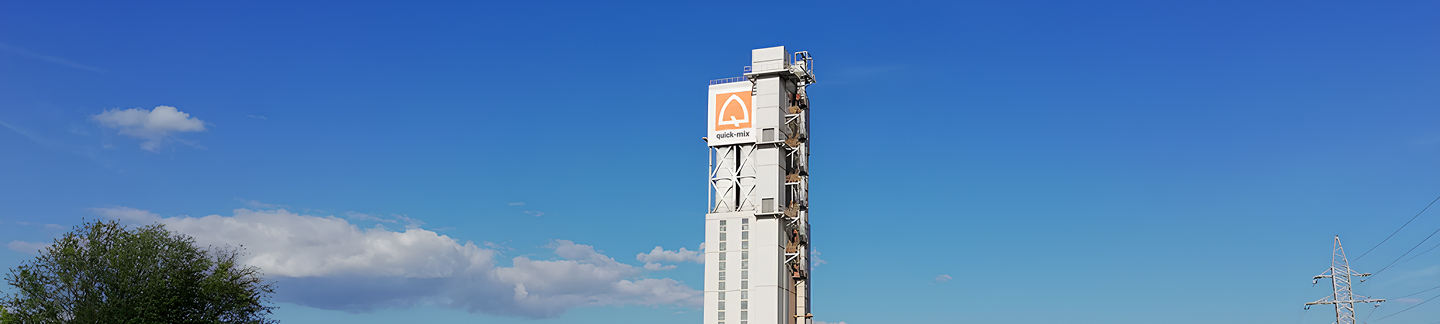
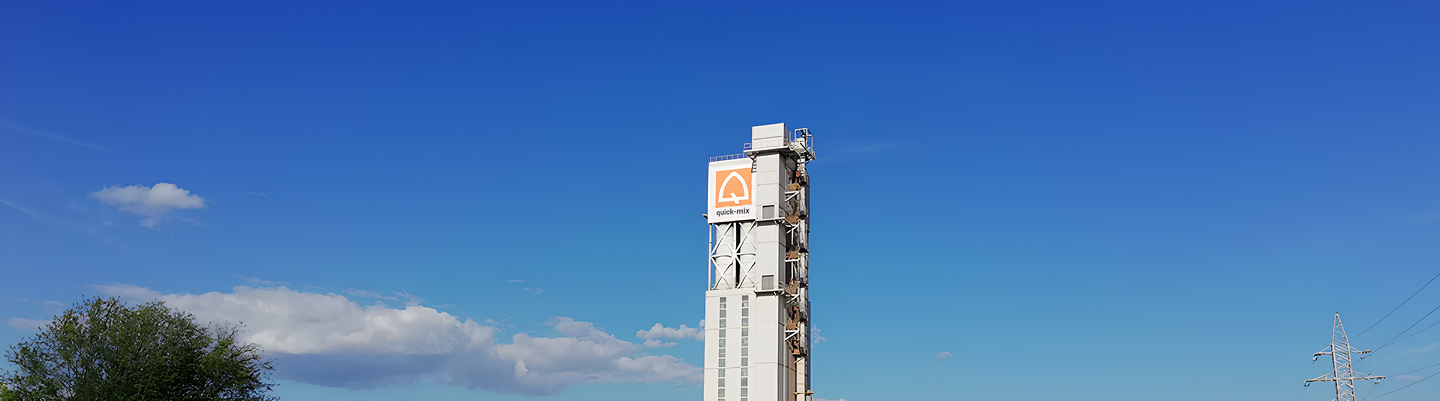
all done 003

diff --git a/css/style.css b/css/style.css
@@ -1,1 +1,1 @@
-html{font-family:sans-serif;-ms-text-size-adjust:100%;-webkit-text-size-adjust:100%}body{margin:0}article,aside,details,figcaption,figure,footer,header,hgroup,main,nav,section,summary{display:block}audio,canvas,progress,video{display:inline-block;vertical-align:baseline}audio:not([controls]){display:none;height:0}[hidden],template{display:none}a{background:rgba(0,0,0,0)}a:active,a:hover{outline:0}abbr[title]{border-bottom:1px dotted}b,strong{font-weight:bold}dfn{font-style:italic}h1{font-size:2em;margin:.67em 0}mark{background:#ff0;color:#000}small{font-size:80%}sub,sup{font-size:75%;line-height:0;position:relative;vertical-align:baseline}sup{top:-0.5em}sub{bottom:-0.25em}img{border:0}svg:not(:root){overflow:hidden}figure{margin:1em 40px}hr{-moz-box-sizing:content-box;-webkit-box-sizing:content-box;box-sizing:content-box;height:0}pre{overflow:auto}code,kbd,pre,samp{font-family:monospace,monospace;font-size:1em}button,input,optgroup,select,textarea{color:inherit;font:inherit;margin:0}button{overflow:visible}button,select{text-transform:none}button,html input[type=button],input[type=reset],input[type=submit]{-webkit-appearance:button;cursor:pointer}button[disabled],html input[disabled]{cursor:default}button::-moz-focus-inner,input::-moz-focus-inner{border:0;padding:0}input{line-height:normal}input[type=checkbox],input[type=radio]{-webkit-box-sizing:border-box;-moz-box-sizing:border-box;box-sizing:border-box;padding:0}input[type=number]::-webkit-inner-spin-button,input[type=number]::-webkit-outer-spin-button{height:auto}input[type=search]{-webkit-appearance:textfield;-moz-box-sizing:content-box;-webkit-box-sizing:content-box;box-sizing:content-box}input[type=search]::-webkit-search-cancel-button,input[type=search]::-webkit-search-decoration{-webkit-appearance:none}legend{border:0;padding:0}textarea{overflow:auto}optgroup{font-weight:bold}table{border-collapse:collapse;border-spacing:0}td,th{padding:0}*{padding:0;margin:0;-webkit-box-sizing:border-box;-moz-box-sizing:border-box;box-sizing:border-box;border:none;outline:none}:root{--prime: #18274E;--white: #fff;--black: #000;--dark: #111111;--bg: #fff}html{scroll-behavior:smooth}body,html{font-family:"Roboto",sans-serif;font-weight:400;font-style:normal;font-optical-sizing:auto;background-color:var(--bg);color:var(--black)}body{min-height:100vh;position:relative;z-index:1}body.active{overflow:hidden}img{display:block;max-width:100%}a,button{text-decoration:none;-webkit-transition:all ease .3s;-o-transition:all ease .3s;-moz-transition:all ease .3s;transition:all ease .3s;background-color:rgba(0,0,0,0)}a:active,button:active{opacity:1;-webkit-transform:scale(0.98);-moz-transform:scale(0.98);-ms-transform:scale(0.98);-o-transform:scale(0.98);transform:scale(0.98)}ul{list-style:none}.slick-list{position:relative;display:-webkit-box;display:-webkit-flex;display:-moz-box;display:-ms-flexbox;display:flex;margin:0;padding:0}.slick-list:focus{outline:none}.slick-list.dragging{cursor:pointer;cursor:hand}.slick-slider{position:relative;display:block;-webkit-box-sizing:border-box;-moz-box-sizing:border-box;box-sizing:border-box;-webkit-touch-callout:none;-webkit-user-select:none;-moz-user-select:none;-ms-user-select:none;user-select:none;-ms-touch-action:pan-y;touch-action:pan-y;-webkit-tap-highlight-color:rgba(0,0,0,0);left:0;width:100%;position:relative}.slick-slider .slick-track,.slick-slider .slick-list{-webkit-transform:translate3d(0, 0, 0);-moz-transform:translate3d(0, 0, 0);-ms-transform:translate3d(0, 0, 0);-o-transform:translate3d(0, 0, 0);transform:translate3d(0, 0, 0)}.slick-track{position:relative;left:0;top:0;display:-webkit-box;display:-webkit-flex;display:-moz-box;display:-ms-flexbox;display:flex;margin-left:auto;margin-right:auto}.slick-track:before,.slick-track:after{content:"";display:table}.slick-track:after{clear:both}.slick-loading .slick-track{visibility:hidden}.slick-slide{float:left;height:100%;margin:0;min-height:1px;-webkit-transition:all ease .3s;-o-transition:all ease .3s;-moz-transition:all ease .3s;transition:all ease .3s;margin:0 8px}.slick-slide img{display:block}.slick-slide.slick-loading img{display:none}.slick-slide.dragging img{pointer-events:none}.slick-loading .slick-slide{visibility:hidden}.slick-vertical .slick-slide{height:auto}.slick-arrow.slick-hidden{display:none}.slick-arrow{color:rgba(0,0,0,0);width:52px;z-index:111;height:52px;-webkit-border-radius:50%;-moz-border-radius:50%;border-radius:50%;background-repeat:no-repeat;background-position:center center;-webkit-background-size:contain;-moz-background-size:contain;-o-background-size:contain;background-size:contain;-webkit-box-shadow:0px 2px 18px 2px rgba(0,0,0,.0392156863);-moz-box-shadow:0px 2px 18px 2px rgba(0,0,0,.0392156863);box-shadow:0px 2px 18px 2px rgba(0,0,0,.0392156863)}.slick-arrow.slick-disabled{opacity:.2}.slick-next{background-image:url("../img/arrow-r.svg")}.slick-prev{background-image:url("../img/arrow-l.svg")}.slick-dots{z-index:111;display:-webkit-box;display:-webkit-flex;display:-moz-box;display:-ms-flexbox;display:flex;-webkit-box-align:center;-webkit-align-items:center;-moz-box-align:center;-ms-flex-align:center;align-items:center;gap:10px}.slick-dots li{line-height:0;font-size:0;color:rgba(0,0,0,0);background-color:#18274e;width:10px;height:10px;-webkit-border-radius:50%;-moz-border-radius:50%;border-radius:50%;line-height:0;opacity:.2}.slick-dots li.slick-active{opacity:1}.timeline{margin:0 auto;overflow:hidden;padding:80px 0 90px;position:relative;z-index:1}.timeline-row{display:-webkit-box;display:-webkit-flex;display:-moz-box;display:-ms-flexbox;display:flex;margin-bottom:114px;padding:0 31px}.timeline-row .half{gap:40px;display:-webkit-box;display:-webkit-flex;display:-moz-box;display:-ms-flexbox;display:flex;width:100%;max-width:63%;margin-left:auto}.timeline-controls{display:-webkit-box;display:-webkit-flex;display:-moz-box;display:-ms-flexbox;display:flex;-webkit-box-align:center;-webkit-align-items:center;-moz-box-align:center;-ms-flex-align:center;align-items:center;gap:10px;margin-left:auto}.timeline-controls .slick-dots{margin-right:74px}.timeline__heading{font-weight:500;font-size:44px;line-height:110%;margin:0}.timeline__text{font-weight:500;font-size:16px;line-height:140%;opacity:0;-webkit-transition:.3s ease all;-o-transition:.3s ease all;-moz-transition:.3s ease all;transition:.3s ease all}.timeline-item{position:relative;z-index:1;margin:0;display:-webkit-box;display:-webkit-flex;display:-moz-box;display:-ms-flexbox;display:flex;-webkit-box-align:end;-webkit-align-items:flex-end;-moz-box-align:end;-ms-flex-align:end;align-items:flex-end;min-height:360px;min-width:426px;width:426px;padding-bottom:143px;background-repeat:repeat-x;background-position:bottom left;background-image:url("../img/lines.svg");background-image:url("../img/line-ac.svg"),url("../img/lines.svg");background-position:bottom left;background-repeat:no-repeat,repeat-x}.timeline-item:first-child::before,.timeline-item:last-child::before{content:"";width:50vw;pointer-events:none;height:100%;position:absolute;bottom:0;right:100%;background-repeat:repeat-x;background-position:bottom right;background-image:url("../img/lines.svg")}.timeline-item:last-child::before{right:auto;left:100%;background-position:bottom left}.timeline-item.slick-current .timeline__text{opacity:1;-webkit-transform:translateY(0%);-moz-transform:translateY(0%);-ms-transform:translateY(0%);-o-transform:translateY(0%);transform:translateY(0%)}.timeline__subheading{font-weight:400;font-size:20px;line-height:140%;margin:0;-webkit-transition:.3s ease all;-o-transition:.3s ease all;-moz-transition:.3s ease all;transition:.3s ease all}.timeline-images{display:-webkit-box;display:-webkit-flex;display:-moz-box;display:-ms-flexbox;display:flex;-webkit-transition:-webkit-transform .4s ease;transition:-webkit-transform .4s ease;-o-transition:-o-transform .4s ease;-moz-transition:transform .4s ease, -moz-transform .4s ease;transition:transform .4s ease;transition:transform .4s ease, -webkit-transform .4s ease, -moz-transform .4s ease, -o-transform .4s ease;will-change:transform}.timeline-images .slick-list{padding:0 !important}.timeline-images .slick-track{padding:0 !important}.timeline-img{margin:0;min-width:100%;width:100%}.timeline-img img{width:100%;display:block}.timeline-track{padding-left:37%;overflow:hidden}.timeline-track .slick-arrow{display:none}.timeline-list{overflow:hidden}.timeline-slider{display:-webkit-box;display:-webkit-flex;display:-moz-box;display:-ms-flexbox;display:flex;-webkit-transition:-webkit-transform .4s ease;transition:-webkit-transform .4s ease;-o-transition:-o-transform .4s ease;-moz-transition:transform .4s ease, -moz-transform .4s ease;transition:transform .4s ease;transition:transform .4s ease, -webkit-transform .4s ease, -moz-transform .4s ease, -o-transform .4s ease;will-change:transform}@media screen and (min-width: 1101px){.timeline__text{position:absolute;left:80%;width:364px;-webkit-transform:translateY(10%);-moz-transform:translateY(10%);-ms-transform:translateY(10%);-o-transform:translateY(10%);transform:translateY(10%);top:0}.timeline-item.slick-current{background-image:url("../img/line-big.svg"),url("../img/lines.svg")}.timeline-item.slick-current .timeline__subheading{color:#72a811;font-weight:400;font-size:128px;line-height:78%;-webkit-transform:translateY(-100%);-moz-transform:translateY(-100%);-ms-transform:translateY(-100%);-o-transform:translateY(-100%);transform:translateY(-100%);padding-left:33px}.timeline-item.slick-current .timeline__text{opacity:1;-webkit-transform:translateY(0%);-moz-transform:translateY(0%);-ms-transform:translateY(0%);-o-transform:translateY(0%);transform:translateY(0%)}}@media screen and (max-width: 1100px){.timeline-row{display:block;margin-bottom:20px}.timeline-row .half{max-width:100%;display:block}.timeline-item{display:block;width:100%;min-height:unset;padding:0 16px 130px;background-image:url("../img/line-ac.svg"),url("../img/lines-mob.svg");background-position:bottom left 70px,bottom left}.timeline__subheading{text-align:center;width:100%;color:#72a811;font-size:60px;line-height:78%}.timeline__text{margin-bottom:50px}.timeline-track{padding-left:0}.timeline .slick-arrow{top:40%;-webkit-transform:translateY(-50%);-moz-transform:translateY(-50%);-ms-transform:translateY(-50%);-o-transform:translateY(-50%);transform:translateY(-50%);position:absolute}.timeline .slick-list{padding:0 !important}.timeline .slick-prev{left:16px}.timeline .slick-next{right:16px}.timeline .slick-dots{display:none}.timeline-row{padding:0 16px}.timeline-img img{-o-object-fit:cover;object-fit:cover;-o-object-position:center center;object-position:center center;aspect-ratio:16/9}}@media screen and (max-width: 700px){.timeline-img img{aspect-ratio:360/201}}/*# sourceMappingURL=style.css.map */
+html{font-family:sans-serif;-ms-text-size-adjust:100%;-webkit-text-size-adjust:100%}body{margin:0}article,aside,details,figcaption,figure,footer,header,hgroup,main,nav,section,summary{display:block}audio,canvas,progress,video{display:inline-block;vertical-align:baseline}audio:not([controls]){display:none;height:0}[hidden],template{display:none}a{background:rgba(0,0,0,0)}a:active,a:hover{outline:0}abbr[title]{border-bottom:1px dotted}b,strong{font-weight:bold}dfn{font-style:italic}h1{font-size:2em;margin:.67em 0}mark{background:#ff0;color:#000}small{font-size:80%}sub,sup{font-size:75%;line-height:0;position:relative;vertical-align:baseline}sup{top:-0.5em}sub{bottom:-0.25em}img{border:0}svg:not(:root){overflow:hidden}figure{margin:1em 40px}hr{-moz-box-sizing:content-box;-webkit-box-sizing:content-box;box-sizing:content-box;height:0}pre{overflow:auto}code,kbd,pre,samp{font-family:monospace,monospace;font-size:1em}button,input,optgroup,select,textarea{color:inherit;font:inherit;margin:0}button{overflow:visible}button,select{text-transform:none}button,html input[type=button],input[type=reset],input[type=submit]{-webkit-appearance:button;cursor:pointer}button[disabled],html input[disabled]{cursor:default}button::-moz-focus-inner,input::-moz-focus-inner{border:0;padding:0}input{line-height:normal}input[type=checkbox],input[type=radio]{-webkit-box-sizing:border-box;-moz-box-sizing:border-box;box-sizing:border-box;padding:0}input[type=number]::-webkit-inner-spin-button,input[type=number]::-webkit-outer-spin-button{height:auto}input[type=search]{-webkit-appearance:textfield;-moz-box-sizing:content-box;-webkit-box-sizing:content-box;box-sizing:content-box}input[type=search]::-webkit-search-cancel-button,input[type=search]::-webkit-search-decoration{-webkit-appearance:none}legend{border:0;padding:0}textarea{overflow:auto}optgroup{font-weight:bold}table{border-collapse:collapse;border-spacing:0}td,th{padding:0}*{padding:0;margin:0;-webkit-box-sizing:border-box;-moz-box-sizing:border-box;box-sizing:border-box;border:none;outline:none}:root{--prime: #18274E;--white: #fff;--black: #000;--dark: #111111;--bg: #fff}html{scroll-behavior:smooth}body,html{font-family:"Roboto",sans-serif;font-weight:400;font-style:normal;font-optical-sizing:auto;background-color:var(--bg);color:var(--black)}body{min-height:100vh;position:relative;z-index:1}body.active{overflow:hidden}img{display:block;max-width:100%}a,button{text-decoration:none;-webkit-transition:all ease .3s;-o-transition:all ease .3s;-moz-transition:all ease .3s;transition:all ease .3s;background-color:rgba(0,0,0,0)}a:active,button:active{opacity:1;-webkit-transform:scale(0.98);-moz-transform:scale(0.98);-ms-transform:scale(0.98);-o-transform:scale(0.98);transform:scale(0.98)}ul{list-style:none}.btn{font-weight:500;font-size:18px;line-height:110%;-webkit-border-radius:80px;-moz-border-radius:80px;border-radius:80px;width:-webkit-fit-content;width:-moz-fit-content;width:fit-content;display:-webkit-box;display:-webkit-flex;display:-moz-box;display:-ms-flexbox;display:flex;-webkit-box-align:center;-webkit-align-items:center;-moz-box-align:center;-ms-flex-align:center;align-items:center;gap:20px;padding:19px 24px;border:1px solid #9291aa;color:#18274e;background-color:#fff}@media screen and (max-width: 1100px){.mob-hide{display:none}}@media screen and (min-width: 1101px){.mob-show{display:none}}.slick-arrow{color:rgba(0,0,0,0);width:52px;z-index:111;height:52px;-webkit-border-radius:50%;-moz-border-radius:50%;border-radius:50%;background-repeat:no-repeat;background-position:center center;-webkit-background-size:contain;-moz-background-size:contain;-o-background-size:contain;background-size:contain;-webkit-box-shadow:0px 2px 18px 2px rgba(0,0,0,.0392156863);-moz-box-shadow:0px 2px 18px 2px rgba(0,0,0,.0392156863);box-shadow:0px 2px 18px 2px rgba(0,0,0,.0392156863)}.slick-arrow.slick-disabled{opacity:.2}.slick-next{background-image:url("../img/arrow-r.svg")}.slick-prev{background-image:url("../img/arrow-l.svg")}.slick-dots{z-index:111;display:-webkit-box;display:-webkit-flex;display:-moz-box;display:-ms-flexbox;display:flex;-webkit-box-align:center;-webkit-align-items:center;-moz-box-align:center;-ms-flex-align:center;align-items:center;gap:10px}.slick-dots li{line-height:0;font-size:0;color:rgba(0,0,0,0);cursor:pointer;background-color:#18274e;width:10px;height:10px;-webkit-border-radius:50%;-moz-border-radius:50%;border-radius:50%;line-height:0;opacity:.2}.slick-dots li.slick-active{opacity:1}.timeline{margin:0 auto;overflow:hidden;padding:80px 0 90px;position:relative;z-index:1}.timeline-row{display:-webkit-box;display:-webkit-flex;display:-moz-box;display:-ms-flexbox;display:flex;margin-bottom:114px;padding:0 31px}.timeline-row .half{gap:40px;display:-webkit-box;display:-webkit-flex;display:-moz-box;display:-ms-flexbox;display:flex;width:100%;max-width:63%;margin-left:auto}.timeline-controls{display:-webkit-box;display:-webkit-flex;display:-moz-box;display:-ms-flexbox;display:flex;-webkit-box-align:center;-webkit-align-items:center;-moz-box-align:center;-ms-flex-align:center;align-items:center;gap:10px;margin-left:auto}.timeline-controls .slick-dots{margin-right:74px}.timeline__heading{font-weight:500;font-size:44px;line-height:110%;margin:0}.timeline__text{font-weight:500;font-size:16px;line-height:140%;opacity:0;-webkit-transition:.3s ease all;-o-transition:.3s ease all;-moz-transition:.3s ease all;transition:.3s ease all}.timeline-item{position:relative;z-index:1;margin:0;display:-webkit-box;display:-webkit-flex;display:-moz-box;display:-ms-flexbox;display:flex;-webkit-box-align:end;-webkit-align-items:flex-end;-moz-box-align:end;-ms-flex-align:end;align-items:flex-end;min-height:360px;min-width:426px;width:426px;padding-bottom:143px;background-repeat:repeat-x;background-position:bottom left;background-image:url("../img/lines.svg");background-image:url("../img/line-ac.svg"),url("../img/lines.svg");background-position:bottom left;background-repeat:no-repeat,repeat-x}.timeline-item:first-child::before,.timeline-item:last-child::before{content:"";width:50vw;pointer-events:none;height:100%;position:absolute;bottom:0;right:100%;background-repeat:repeat-x;background-position:bottom right;background-image:url("../img/lines.svg")}.timeline-item:last-child::before{right:auto;left:100%;background-position:bottom left}.timeline-item.slick-current .timeline__text{opacity:1;-webkit-transform:translateY(0%);-moz-transform:translateY(0%);-ms-transform:translateY(0%);-o-transform:translateY(0%);transform:translateY(0%)}.timeline__subheading{font-weight:400;font-size:20px;line-height:140%;margin:0;-webkit-transition:.3s ease all;-o-transition:.3s ease all;-moz-transition:.3s ease all;transition:.3s ease all}.timeline-images{display:-webkit-box;display:-webkit-flex;display:-moz-box;display:-ms-flexbox;display:flex;-webkit-transition:-webkit-transform .4s ease;transition:-webkit-transform .4s ease;-o-transition:-o-transform .4s ease;-moz-transition:transform .4s ease, -moz-transform .4s ease;transition:transform .4s ease;transition:transform .4s ease, -webkit-transform .4s ease, -moz-transform .4s ease, -o-transform .4s ease;will-change:transform}.timeline-images .slick-list{padding:0 !important}.timeline-images .slick-track{padding:0 !important}.timeline-img{margin:0;min-width:100%;width:100%}.timeline-img img{width:100%;aspect-ratio:1440/324;-o-object-fit:cover;object-fit:cover;-o-object-position:center bottom;object-position:center bottom;display:block}.timeline-track{padding-left:37%;position:relative;z-index:1;overflow:hidden}.timeline-track .btn{position:absolute;left:30px;bottom:121px;z-index:111}.timeline-list{overflow:hidden}.timeline-slider{display:-webkit-box;display:-webkit-flex;display:-moz-box;display:-ms-flexbox;display:flex;-webkit-transition:-webkit-transform .4s ease;transition:-webkit-transform .4s ease;-o-transition:-o-transform .4s ease;-moz-transition:transform .4s ease, -moz-transform .4s ease;transition:transform .4s ease;transition:transform .4s ease, -webkit-transform .4s ease, -moz-transform .4s ease, -o-transform .4s ease;will-change:transform}@media screen and (min-width: 1101px){.timeline__text{position:absolute;left:80%;width:364px;-webkit-transform:translateY(10%);-moz-transform:translateY(10%);-ms-transform:translateY(10%);-o-transform:translateY(10%);transform:translateY(10%);top:0}.timeline-item.slick-current{background-image:url("../img/line-big.svg"),url("../img/lines.svg")}.timeline-item.slick-current .timeline__subheading{color:#72a811;font-weight:400;font-size:128px;line-height:78%;-webkit-transform:translateY(-100%);-moz-transform:translateY(-100%);-ms-transform:translateY(-100%);-o-transform:translateY(-100%);transform:translateY(-100%);padding-left:33px}.timeline-item.slick-current .timeline__text{opacity:1;-webkit-transform:translateY(0%);-moz-transform:translateY(0%);-ms-transform:translateY(0%);-o-transform:translateY(0%);transform:translateY(0%)}.timeline-track .slick-arrow{display:none}}@media screen and (max-width: 1100px){.timeline-row{display:block;margin-bottom:20px}.timeline-row .half{max-width:100%;display:block}.timeline-item{display:block;min-width:100%;width:100%;min-height:unset;padding:0 16px 160px;background-image:url("../img/line-ac.svg"),url("../img/lines-mob.svg");background-position:bottom left 70px,bottom left}.timeline__subheading{text-align:center;width:100%;color:#72a811;font-size:60px;line-height:78%}.timeline__text{margin-bottom:50px}.timeline-track{padding-left:0}.timeline .slick-arrow{top:auto;bottom:160px;position:absolute}.timeline .slick-list{padding:0 !important}.timeline .slick-prev{left:16px}.timeline .slick-next{right:16px}.timeline .slick-dots{display:none}.timeline-row{padding:0 16px}.timeline-img img{-o-object-fit:cover;object-fit:cover;-o-object-position:center center;object-position:center center;aspect-ratio:16/9}.timeline-controls{display:none}.timeline .btn{margin:30px auto 0}}@media screen and (max-width: 700px){.timeline-img img{aspect-ratio:360/201}}/*# sourceMappingURL=style.css.map */

diff --git a/js/main.js b/js/main.js
@@ -1,11 +1,10 @@
 document.addEventListener("DOMContentLoaded", function () {
     const slider = document.querySelector('.timeline-slider');
     const items = document.querySelectorAll('.timeline-item');
-    const nextBtn = document.querySelectorAll('.slick-next');
-    const prevBtn = document.querySelector('.slick-prev');
+    const nextBtns = document.querySelectorAll('.slick-next');
+    const prevBtns = document.querySelectorAll('.slick-prev');
     const dotsContainer = document.querySelector('.slick-dots');
 
-    // Новое:
     const imagesContainer = document.querySelector('.timeline-images');
     const images = document.querySelectorAll('.timeline-img');
 
@@ -14,64 +13,74 @@ document.addEventListener("DOMContentLoaded", function () {
     // Создание точек
     items.forEach((_, index) => {
         const dot = document.createElement('li');
-        if (index === 0) dot.classList.add('slick-active');
         dot.setAttribute('data-slide', index);
+        if (index === 0) dot.classList.add('slick-active');
         dotsContainer.appendChild(dot);
     });
 
     const dots = dotsContainer.querySelectorAll('li');
 
     function updateSlider() {
-        // === ТЕКСТ ===
         const itemWidth = items[0].offsetWidth + parseInt(getComputedStyle(items[0]).marginRight);
-        const offsetText = -(itemWidth * currentIndex);
-        slider.style.transform = `translateX(${offsetText}px)`;
+        const imgWidth = images[0].offsetWidth + parseInt(getComputedStyle(images[0]).marginRight);
 
+        // Смещение текста
+        slider.style.transform = `translateX(${-itemWidth * currentIndex}px)`;
+
+        // Смещение изображений
+        imagesContainer.style.transform = `translateX(${-imgWidth * currentIndex}px)`;
+
+        // Обновление классов
         items.forEach(item => item.classList.remove('slick-current'));
         if (items[currentIndex]) {
             items[currentIndex].classList.add('slick-current');
         }
-
-        prevBtn.classList.toggle('slick-disabled', currentIndex === 0);
-        // nextBtn.classList.toggle('slick-disabled', currentIndex === items.length - 1);
-        nextBtn.forEach(item => item.classList.toggle('slick-disabled', currentIndex === items.length - 1));
-        
 
         dots.forEach(dot => dot.classList.remove('slick-active'));
         if (dots[currentIndex]) {
             dots[currentIndex].classList.add('slick-active');
         }
 
-        // === КАРТИНКИ ===
-        const imgWidth = images[0].offsetWidth + parseInt(getComputedStyle(images[0]).marginRight);
-        const offsetImg = -(imgWidth * currentIndex);
-        imagesContainer.style.transform = `translateX(${offsetImg}px)`;
+        nextBtns.forEach(btn => btn.classList.toggle('slick-disabled', currentIndex === items.length - 1));
+        prevBtns.forEach(btn => btn.classList.toggle('slick-disabled', currentIndex === 0));
     }
 
-   nextBtn.forEach(item => item.addEventListener('click', function () {
-        if (currentIndex < items.length - 1) {
-            currentIndex++;
-            updateSlider();
-        }
-    }));
+    // Обработчики кнопок
+    nextBtns.forEach(btn =>
+        btn.addEventListener('click', function () {
+            if (currentIndex < items.length - 1) {
+                currentIndex++;
+                updateSlider();
+            }
+        })
+    );
 
-    prevBtn.addEventListener('click', function () {
-        if (currentIndex > 0) {
-            currentIndex--;
-            updateSlider();
-        }
-    });
+    prevBtns.forEach(btn =>
+        btn.addEventListener('click', function () {
+            if (currentIndex > 0) {
+                currentIndex--;
+                updateSlider();
+            }
+        })
+    );
 
-    dots.forEach(dot => {
-        dot.addEventListener('click', function () {
-            const index = parseInt(this.getAttribute('data-slide'));
+    // Обработчики точек
+    dotsContainer.addEventListener('click', function (e) {
+        if (e.target.tagName.toLowerCase() === 'li') {
+            const index = parseInt(e.target.getAttribute('data-slide'));
             if (!isNaN(index)) {
                 currentIndex = index;
                 updateSlider();
             }
-        });
+        }
     });
 
-    // Инициализация
-    updateSlider();
+    updateSlider(); // Начальная инициализация
+});
+
+// Перерасчёт при изменении размера экрана
+let resizeTimeout;
+window.addEventListener('resize', function () {
+    clearTimeout(resizeTimeout);
+    resizeTimeout = setTimeout(updateSlider, 200);
 });

diff --git a/sass/_slick.sass b/sass/_slick.sass
@@ -1,92 +1,6 @@
 /* Slider */
 
 .slick
-    &-list
-        position: relative
-        // overflow: hidden
-        display: flex
-
-        margin: 0
-        padding: 0
-
-        &:focus
-            outline: none
-
-        &.dragging
-            cursor: pointer
-            cursor: hand
-
-    &-slider
-        position: relative
-        // overflow: hidden
-        display: block
-        box-sizing: border-box
-        -webkit-touch-callout: none
-        user-select: none
-        touch-action: pan-y
-        -webkit-tap-highlight-color: transparent
-        left: 0
-
-        width: 100%
-        position: relative
-
-        .slick-track,
-        .slick-list
-            -webkit-transform: translate3d(0, 0, 0)
-            -moz-transform: translate3d(0, 0, 0)
-            -ms-transform: translate3d(0, 0, 0)
-            -o-transform: translate3d(0, 0, 0)
-            transform: translate3d(0, 0, 0)
-
-    &-track
-        position: relative
-        left: 0
-        top: 0
-        // height: 100%
-        display: flex
-        margin-left: auto
-        margin-right: auto
-
-        &:before,
-        &:after
-            content: ""
-            display: table
-
-        &:after
-            clear: both
-
-        .slick-loading &
-            visibility: hidden
-
-    &-slide
-        float: left
-        height: 100%
-        margin: 0
-        min-height: 1px
-        transition: all ease .3s
-        margin: 0 8px
-        // [dir="rtl"] &
-        //     float: right
-
-        img
-            display: block
-
-        &.slick-loading img
-            display: none
-
-        &.dragging img
-            pointer-events: none
-
-        .slick-loading &
-            visibility: hidden
-
-        .slick-vertical &
-            // display: block
-            height: auto
-
-    &-arrow.slick-hidden
-        display: none
-
     &-arrow
         color: rgba(0, 0, 0, 0)
         width: 52px
@@ -122,6 +36,7 @@
             line-height: 0
             font-size: 0
             color: rgba(0, 0, 0, 0)
+            cursor: pointer
             background-color: #18274E
             width: 10px
             height: 10px

diff --git a/sass/style.sass b/sass/style.sass
@@ -110,19 +110,28 @@
 
         img
             width: 100%
+            aspect-ratio: 1440/324
+            object-fit: cover
+            object-position: center bottom
             display: block
 
     &-track
         padding-left: 37%
+        position: relative
+        z-index: 1
         overflow: hidden
-        .slick-arrow 
-            display: none
+        .btn 
+            position: absolute
+            left: 30px 
+            bottom: 121px
+            z-index: 111
 
-    &-list 
+    &-list
         overflow: hidden
 
     &-slider
         display: flex
+
         transition: transform 0.4s ease
         will-change: transform
 
@@ -150,6 +159,10 @@
                         opacity: 1
                         transform: translateY(0%)
 
+        &-track
+            .slick-arrow
+                display: none
+
     @media screen and ( max-width: 1100px )
         &-row
             display: block
@@ -160,9 +173,10 @@
 
         &-item
             display: block
+            min-width: 100%
             width: 100%
             min-height: unset
-            padding: 0 16px 130px
+            padding: 0 16px 160px
             background-image: url('../img/line-ac.svg'), url('../img/lines-mob.svg')
             background-position: bottom left 70px, bottom left
 
@@ -176,13 +190,13 @@
         &__text
             margin-bottom: 50px
 
-        &-track 
+        &-track
             padding-left: 0
 
         .slick
             &-arrow
-                top: 40%
-                transform: translateY(-50%)
+                top: auto
+                bottom: 160px
                 position: absolute
 
             &-list
@@ -203,6 +217,13 @@
                 object-fit: cover
                 object-position: center center
                 aspect-ratio: 16/9
+
+        &-controls
+            display: none
+
+        .btn 
+            margin: 30px auto 0  
+
 
     @media screen and ( max-width: 700px )
         &-img

diff --git a/index.html b/index.html
@@ -29,8 +29,11 @@
                 </div>
             </div>
             <div class="timeline-track">
-                <button class="slick-prev slick-arrow"></button>
-                <button class="slick-next slick-arrow"></button>
+                <a href="#" class="btn mob-hide">
+                    <span>История компании <br> Sievert</span>
+                    <img src="img/arr-link.svg" alt="link arrow" class="btn__arrow">
+                </a>
+
                 <div class="timeline-slider">
                     <div class="timeline-item slick-current">
                         <p class="timeline__text">Закрытие административного офиса в Москве, переезд команды в Ногинск,
@@ -58,6 +61,8 @@
                         <h2 class="timeline__subheading">2021</h2>
                     </div>
                 </div>
+                <button class="slick-prev slick-arrow"></button>
+                <button class="slick-next slick-arrow"></button>
             </div>
             <div class="timeline-list">
                 <div class="timeline-images">
@@ -78,6 +83,10 @@
                     </div>
                 </div>
             </div>
+            <a href="#" class="btn mob-show">
+                <span>История компании Sievert</span>
+                <img src="img/arr-link.svg" alt="link arrow" class="btn__arrow">
+            </a>
         </div>
     </main>
     <!-- <script src="js/jquery.min.js"></script>

diff --git a/sass/_elements.sass b/sass/_elements.sass
@@ -32,7 +32,7 @@ body, html
     font-optical-sizing: auto
     background-color: $bg
     color: $black
-    
+
 body
     min-height: 100vh
     position: relative
@@ -43,7 +43,6 @@ body
 img
     display: block
     max-width: 100%
-
 
 a,
 button
@@ -59,3 +58,28 @@ button
 
 ul
     list-style: none
+
+.btn
+    font-weight: 500
+    font-size: 18px
+    line-height: 110%
+    border-radius: 80px 
+    width: fit-content
+    display: flex
+    align-items: center
+    gap: 20px
+    padding: 19px 24px
+    border: 1px solid #9291AA
+    color: #18274E
+    background-color: #fff
+
+.mob 
+    @media screen and ( max-width: 1100px )
+        &-hide 
+            display: none 
+            
+    @media screen and ( min-width: 1101px )
+        &-show
+            display: none 
+
+        
